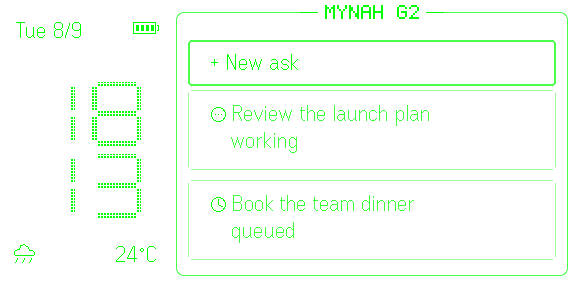
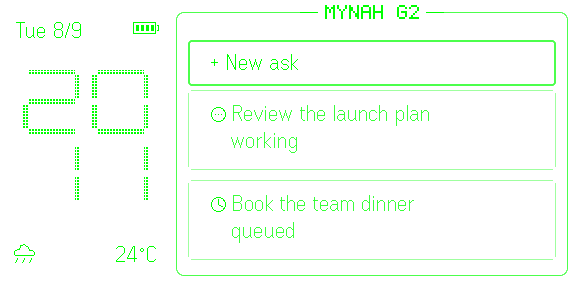
Refine and center the G2 clock for companion 0.2.1

Changed region(s): [[0.125, 0.25, 0.2812, 0.7812], [0.0312, 0.3438, 0.125, 0.4688], [0.0625, 0.25, 0.125, 0.2812]]

diff --git a/g2/src/main.ts b/g2/src/main.ts
@@ -544,5 +544,5 @@ function pageLayout() { return {
       const id=i===0?12:8+i, visible=iconKinds.length > 0 && (i===0 || !!cards.items[Math.max(0,cards.selected-1)+i-1]);
       return new TextContainerProperty({containerID:id,containerName:`row-${id}`,xPosition:188,yPosition:y,width:368,height:i===0?46:80,paddingLength:i===0?6:8,isEventCapture:0,borderWidth:visible?(iconFocus===i?2:1):0,borderColor:iconFocus===i?4:1,borderRadius:4,textColor:iconFocus===i?4:2,content:homeRows()[i]});
     })],
-    imageObject: [new ImageContainerProperty({containerID:8,containerName:'title',xPosition:300,yPosition:0,width:144,height:24}), new ImageContainerProperty({containerID:4,containerName:'digits',xPosition:8,yPosition:78,width:156,height:144}), new ImageContainerProperty({containerID:5,containerName:'icons',xPosition:209,yPosition:106,width:20,height:20}), new ImageContainerProperty({containerID:13,containerName:'icon-second',xPosition:209,yPosition:196,width:20,height:20}), new ImageContainerProperty({containerID:6,containerName:'battery',xPosition:132,yPosition:18,width:28,height:20}), new ImageContainerProperty({containerID:7,containerName:'weather-icon',xPosition:12,yPosition:240,width:24,height:24})]
+    imageObject: [new ImageContainerProperty({containerID:8,containerName:'title',xPosition:300,yPosition:0,width:144,height:24}), new ImageContainerProperty({containerID:4,containerName:'digits',xPosition:8,yPosition:66,width:156,height:144}), new ImageContainerProperty({containerID:5,containerName:'icons',xPosition:209,yPosition:106,width:20,height:20}), new ImageContainerProperty({containerID:13,containerName:'icon-second',xPosition:209,yPosition:196,width:20,height:20}), new ImageContainerProperty({containerID:6,containerName:'battery',xPosition:132,yPosition:18,width:28,height:20}), new ImageContainerProperty({containerID:7,containerName:'weather-icon',xPosition:12,yPosition:240,width:24,height:24})]
   }; }

diff --git a/g2/src/home.ts b/g2/src/home.ts
@@ -13,8 +13,8 @@ export function clockPixels(now: Date): number[] {
   const segments = ['abcdef','bc','abdeg','abcdg','bcfg','acdfg','acdefg','abc','abcdefg','abcdfg'];
   const digits = now.getHours().toString().padStart(2,'0') + now.getMinutes().toString().padStart(2,'0');
   Array.from(digits).forEach((digit,i) => {
-    const x = 18 + (i % 2) * 66, y = 4 + Math.floor(i / 2) * 72;
-    const pieces: Record<string, number[]> = {a:[5,0,39,5],b:[44,5,5,24],c:[44,34,5,24],d:[5,59,39,5],e:[0,34,5,24],f:[0,5,5,24],g:[5,29,39,5]};
+    const x = 15 + (i % 2) * 69, y = 4 + Math.floor(i / 2) * 72;
+    const pieces: Record<string, number[]> = {a:[5,0,47,5],b:[52,5,5,24],c:[52,34,5,24],d:[5,59,47,5],e:[0,34,5,24],f:[0,5,5,24],g:[5,29,47,5]};
     for (const part of segments[Number(digit)]) { const [dx,dy,w,h]=pieces[part]; rect(x+dx,y+dy,w,h); }
   });
   return Array.from(pixels);

diff --git a/g2/store/ASSETS.md b/g2/store/ASSETS.md
@@ -61,3 +61,5 @@ The same capture is used on GitHub Pages as `mynah-g2-dashboard.png`.
 `simulator-dashboard-selected.png` shows the same dashboard after scrolling to select the first question. Both updated screenshots preserve simulator alpha.
 
 Both dashboard captures replaced the old task-list screenshot in Even Hub on September 8, 2026, with the first dashboard selected as the Home-background cover. The website uses only the Even promotional photo and the first dashboard capture, per the owner’s two-image layout preference.
+
+The two dashboard captures were refreshed for 0.2.1 with wider, centered clock digits and a 12-pixel inter-digit gap.

diff --git a/g2/store/LISTING.md b/g2/store/LISTING.md
@@ -33,6 +33,11 @@ Weather is optional and uses phone location. Permission help is available in the
 
 Created by Dhillon Kannabhiran (l33tdawg).
 
+## Release notes — 0.2.1
+
+Wider, centered dot-matrix clock with tighter spacing between digits.
+Requires Mynah 2.5.1 or later on your Mac.
+
 ## Release notes — 0.2.0
 
 A dashboard with a dot-matrix clock, live battery icon, and optional local weather.
